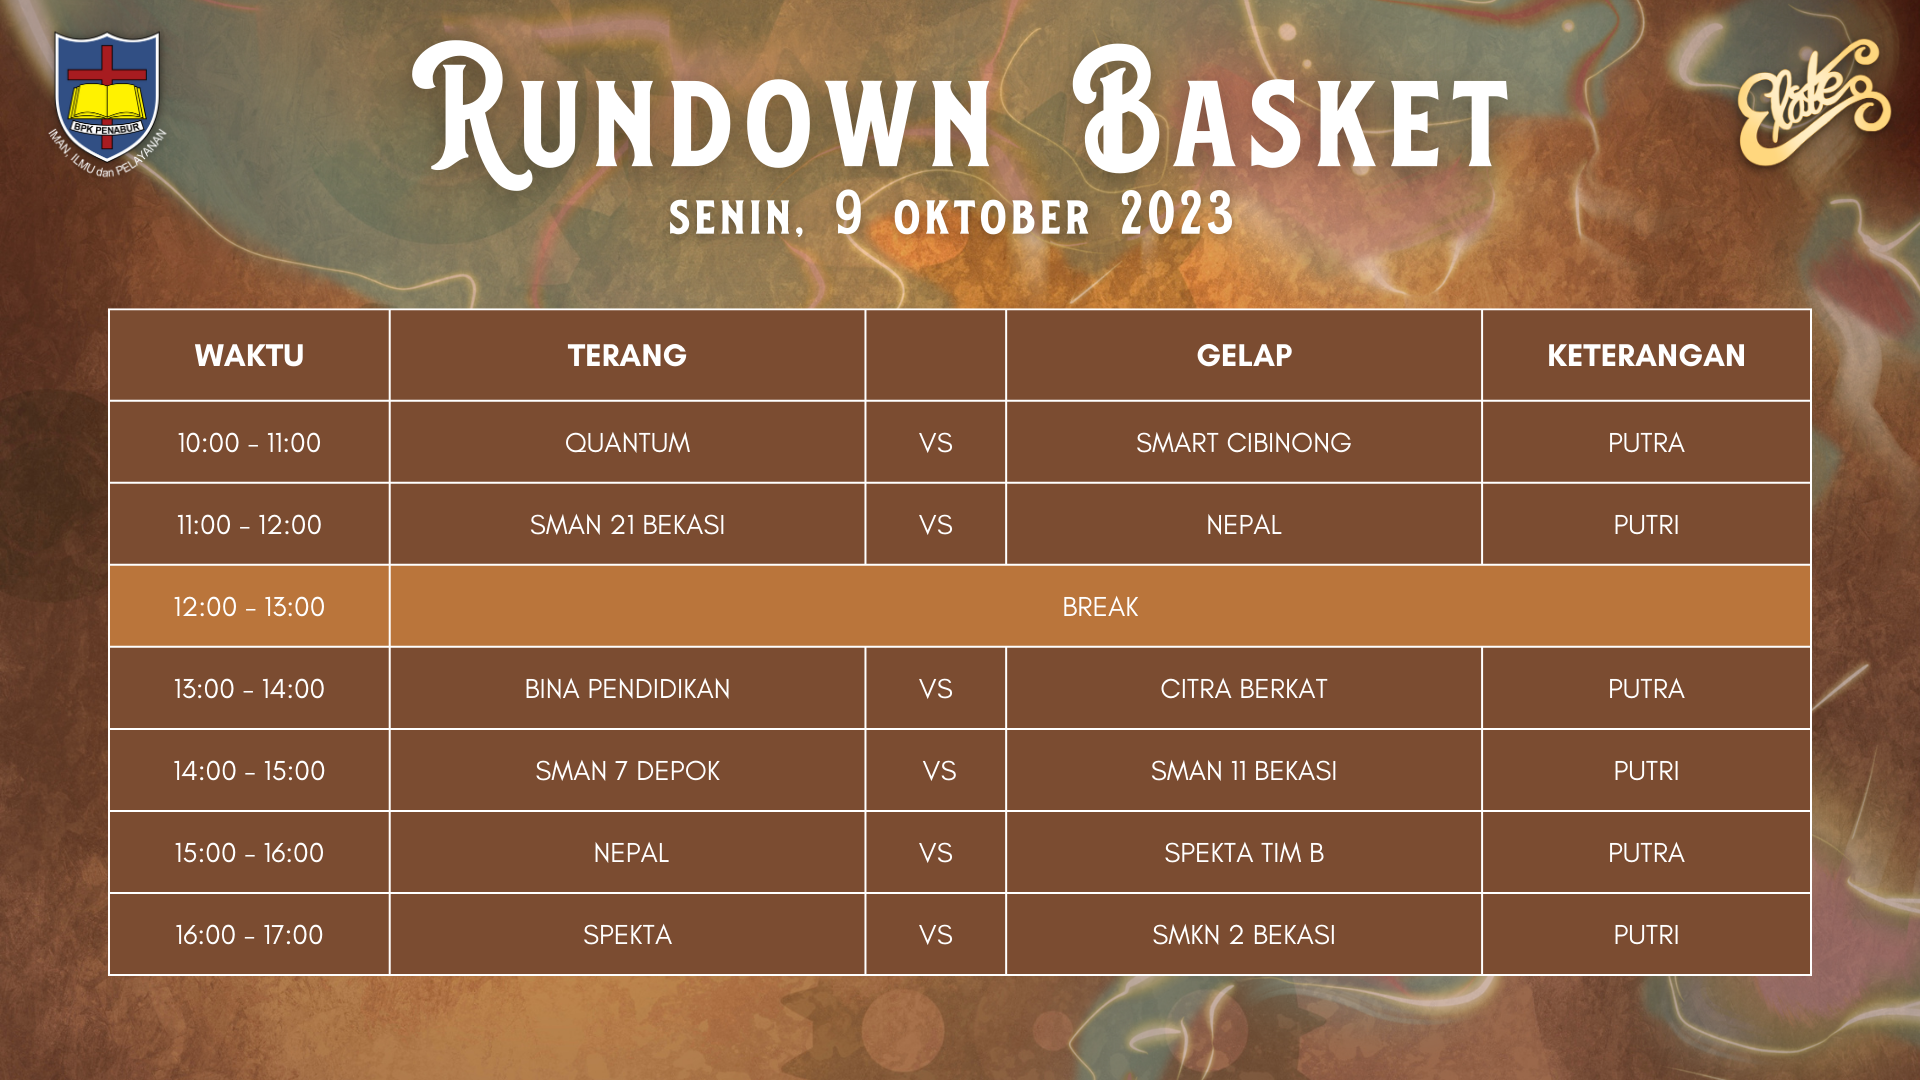
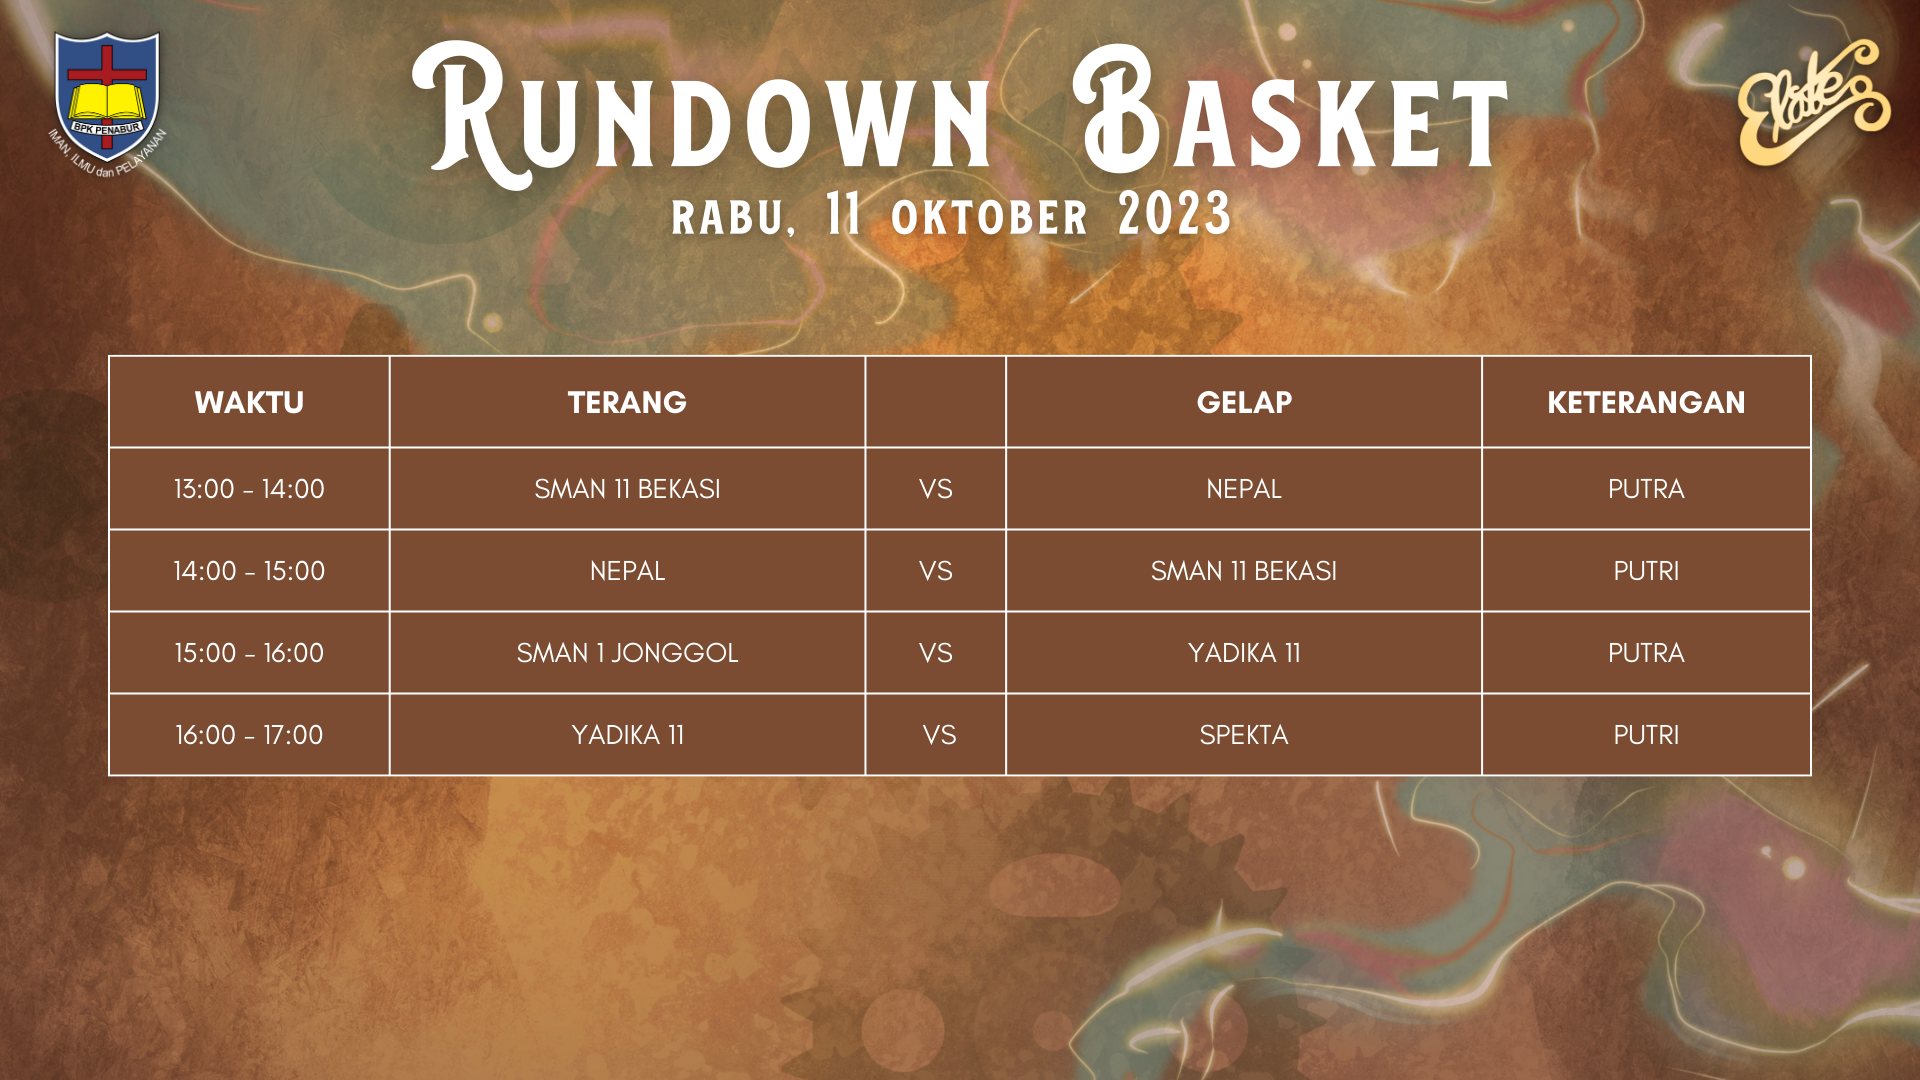
Add files via upload

Changed region(s): [[0.0312, 0.275, 0.9688, 0.9167], [0.3438, 0.1833, 0.6562, 0.2139], [0.4688, 0.3972, 0.5, 0.4583]]

diff --git a/index.html b/index.html
@@ -42,22 +42,22 @@
 
             <div class="box">
                 <div class="subtitle">Rundown Futsal</div>
-                <img src="Rundown Futsal.jpg" alt="" loading="lazy">
+                <img src="3.png" alt="" loading="lazy">
             </div>
 
             <div class="box">
                 <div class="subtitle">Rundown Basket</div>
-                <img src="Rundown Basket.jpg" alt="" loading="lazy">
+                <img src="2.png" alt="" loading="lazy">
             </div>
 
             <div class="box">
                 <div class="subtitle">Rundown Tenis Meja</div>
-                <img src="Rundown Tenis Meja.jpg" alt="" loading="lazy">
+                <img src="1.png" alt="" loading="lazy">
             </div>
 
             <div class="box">
                 <div class="subtitle">Rundown Debat</div>
-                <img src="Rundown Debat.jpg" alt="" loading="lazy">
+                <img src="4.png" alt="" loading="lazy">
             </div>
 
         </div>
